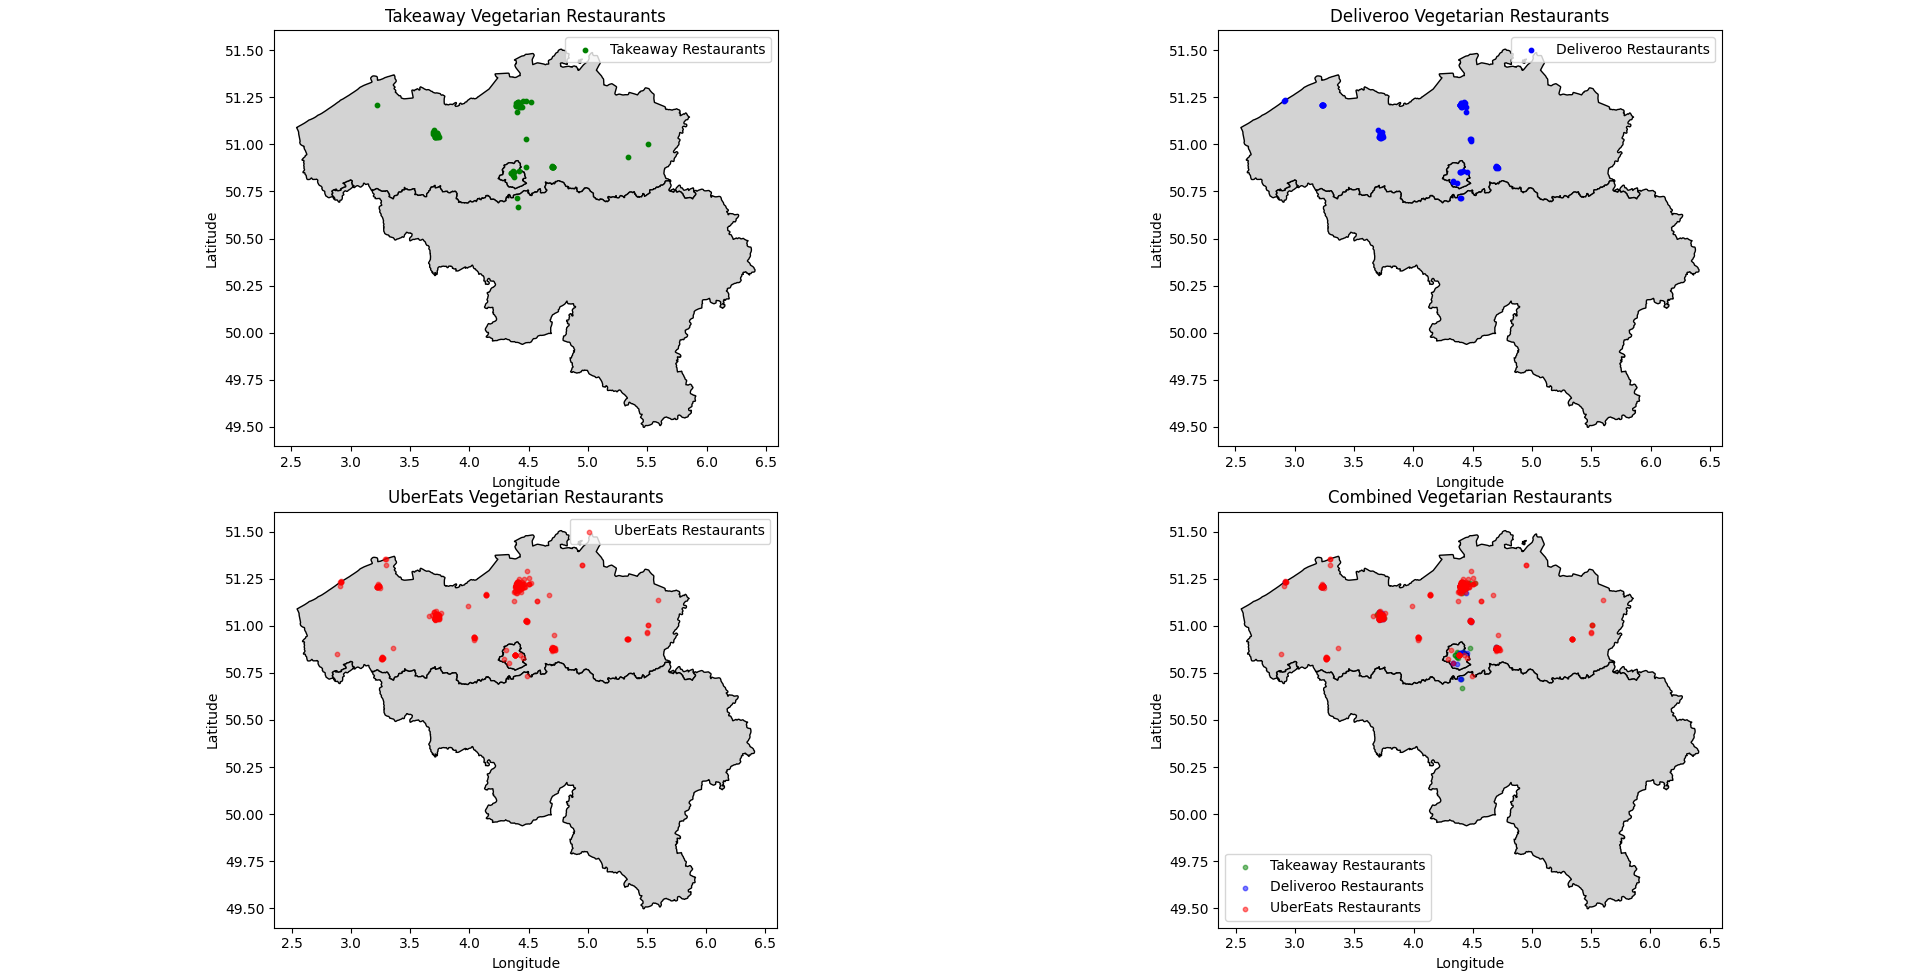
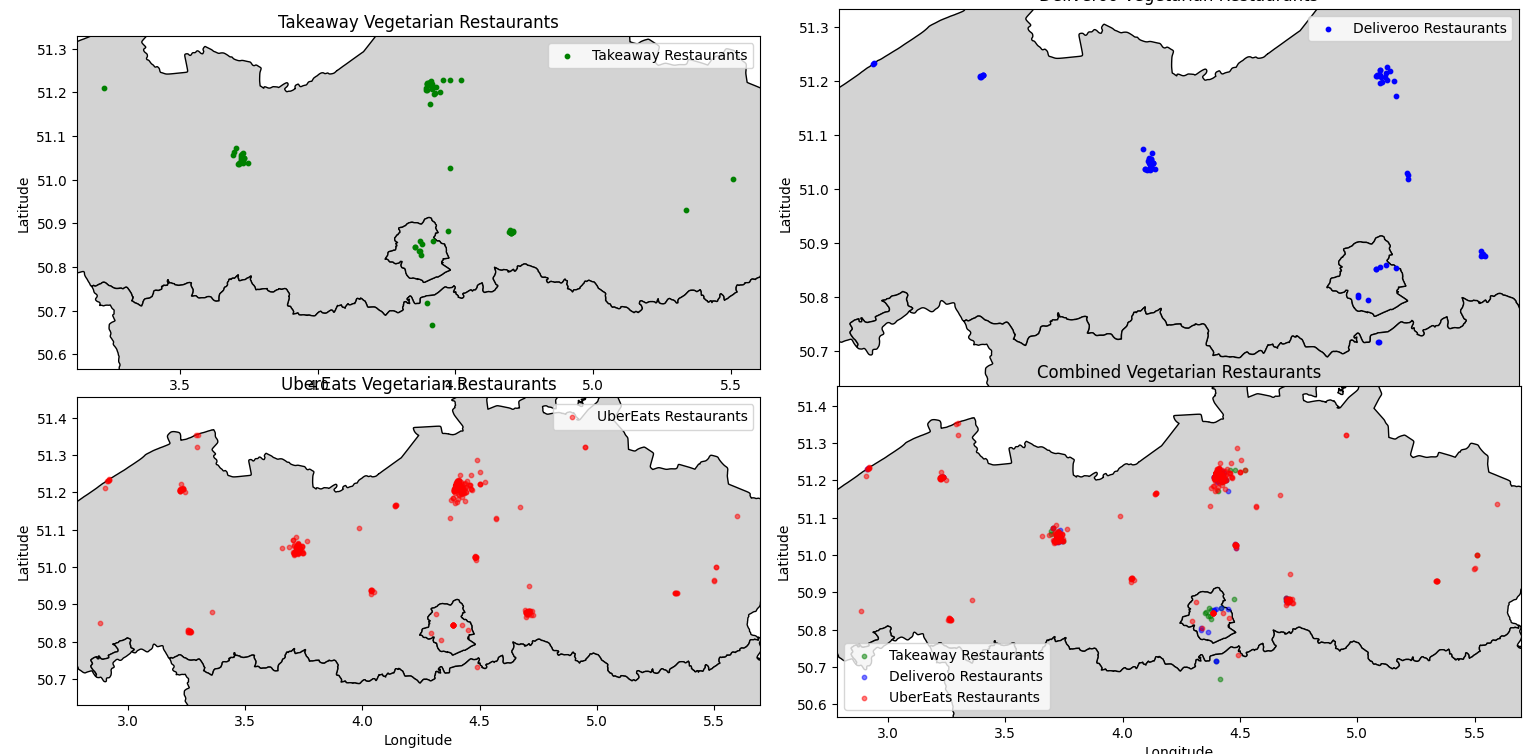
Zooming in for vegetarian and changing vizualisation

diff --git a/vegetarian.py b/vegetarian.py
@@ -44,7 +44,7 @@ region = gpd.read_file('map/régions_08.shp')
 region = region.to_crs(epsg=4326)  # Reproject to EPSG:4326 (WGS84)
 
 # Fetch and combine the data from all platforms
-all_restaurants = pd.concat([
+all_restaurants = pd.concat([ 
     fetch_data('databases/takeaway.db', queries['Takeaway'], 'Takeaway'),
     fetch_data('databases/deliveroo.db', queries['Deliveroo'], 'Deliveroo'),
     fetch_data('databases/ubereats.db', queries['UberEats'], 'UberEats')
@@ -57,13 +57,24 @@ fig, axes = plt.subplots(2, 2, figsize=(15, 12))
 platforms = ['Takeaway', 'Deliveroo', 'UberEats']
 colors = {'Takeaway': 'green', 'Deliveroo': 'blue', 'UberEats': 'red'}
 
-# Plot individual maps
+# Plot individual maps for each platform
 for i, platform in enumerate(platforms):
     ax = axes[i // 2, i % 2]  # Get the correct subplot axis
     region.plot(ax=ax, color='lightgrey', edgecolor='black')  # Plot regions
+
+    # Filter data for the current platform
     gdf_platform = all_restaurants[all_restaurants['platform'] == platform]
+    
+    # Calculate dynamic limits for the current platform's data
+    xmin, ymin, xmax, ymax = gdf_platform.total_bounds  # Get min and max of the platform data
+    ax.set_xlim(xmin - 0.1, xmax + 0.1)  # Add buffer around the data
+    ax.set_ylim(ymin - 0.1, ymax + 0.1)  # Add buffer around the data
+    
+    # Plot the platform's data
     alpha_value = 0.5 if platform == 'UberEats' else 1  # Adjust alpha for UberEats
     gdf_platform.plot(ax=ax, markersize=10, color=colors[platform], alpha=alpha_value, label=f'{platform} Restaurants')
+    
+    # Set title and labels for individual plots
     ax.set_title(f'{platform} Vegetarian Restaurants')
     ax.set_xlabel('Longitude')
     ax.set_ylabel('Latitude')
@@ -72,14 +83,27 @@ for i, platform in enumerate(platforms):
 # Plot combined map in the last subplot (bottom-right)
 ax_combined = axes[1, 1]  # Bottom-right subplot
 region.plot(ax=ax_combined, color='lightgrey', edgecolor='black')  # Plot regions
+
+# Plot data for each platform on the combined map
 for platform in platforms:
     gdf_platform = all_restaurants[all_restaurants['platform'] == platform]
     gdf_platform.plot(ax=ax_combined, markersize=10, color=colors[platform], alpha=alpha_value, label=f'{platform} Restaurants')
+
+# Get dynamic axis limits based on combined restaurant data
+combined_gdf = all_restaurants.copy()
+xmin, ymin, xmax, ymax = combined_gdf.total_bounds  # Get min and max of all restaurant data
+
+# Set dynamic limits with buffer
+ax_combined.set_xlim(xmin - 0.1, xmax + 0.1)
+ax_combined.set_ylim(ymin - 0.1, ymax + 0.1)
+
+# Set title and labels
 ax_combined.set_title('Combined Vegetarian Restaurants')
 ax_combined.set_xlabel('Longitude')
 ax_combined.set_ylabel('Latitude')
-ax_combined.legend()
 
-# Adjust layout to avoid overlap
+# Add legend and show the plot
+ax_combined.legend()
 plt.tight_layout()
 plt.show()
+
